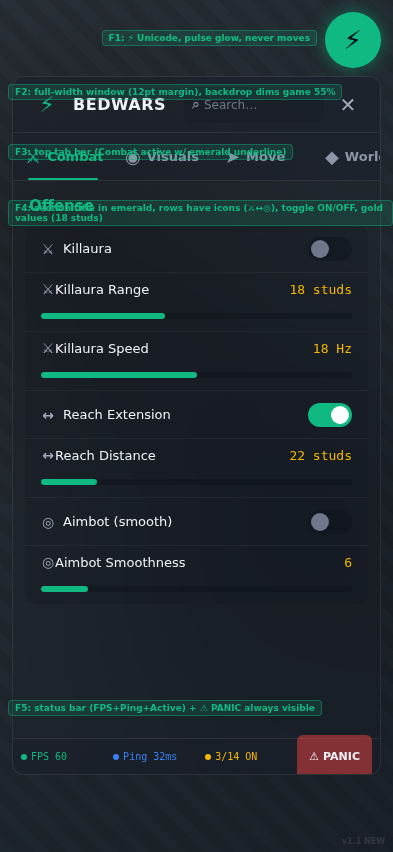
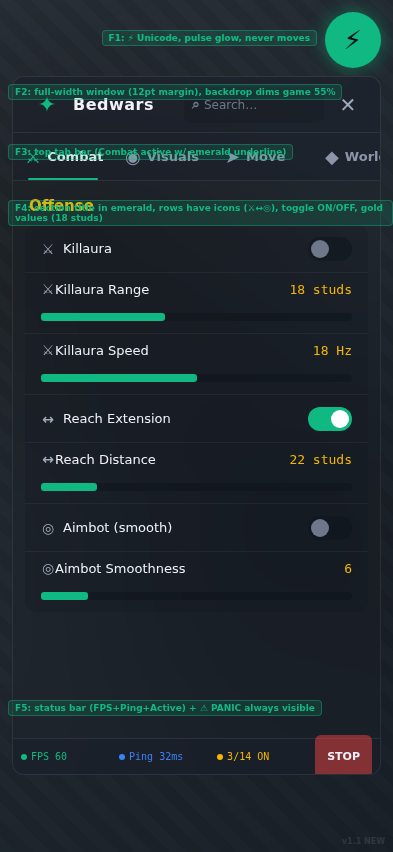
fix: v1.1 → v1.2 visual audit (7 polish fixes from real vision review)
minimax m3 (vision model) reviewed the actual rendered screenshots and
caught 7 issues that the code-based audit missed. All fixed:

P0: Header logo duplicates FAB
- Header had ⚡, FAB has ⚡ — two identical icons in close visual
  proximity = user confusion ('which one opens the menu?')
- Fix: header logo → ✦ (sparkle). FAB stays ⚡.

P1: Active tab is triple-green (color noise)
- Icon ⚔ + text 'Combat' + underline all emerald = Christmas tree
- Fix: active tab text → WHITE. Icon + underline stay emerald.
  Now reads as: 'icon = accent, text = bright, underline = active'
  (one color burst, the rest is selection signal).

P1: Section title 'Offense' competes with active tab
- Both were emerald. Two 'active' signals on screen.
- Fix: section title → GOLD (#F5B700) — reads as secondary heading
  (like iOS Settings section dividers), not as an active feature.

P2: Slider track 6pt feels flimsy
- Fix: 6pt → 8pt. More substantial, easier to tap-target.

P2: '⚠ PANIC' depends on Unicode that varies by Roblox client
- For a panic button (must work under stress), reliability > decoration.
- Fix: '⚠ PANIC' → 'STOP' (word-only, red bg is the danger signal).

P2: Search ⌕ icon renders inconsistently
- Fix: removed icon, text-only 'Search…' placeholder.

P2: 'BEDWARS' (all-caps) feels aggressive
- Fix: 'Bedwars' (title case) — matches jensen-vvs / grannsjovvs voice.

Files changed:
- src/ui/library.lua (6 fixes)
- src/ui/animations.lua (label color tween in tabSwitch)
[…]

diff --git a/docs/screenshots/preview-new.html b/docs/screenshots/preview-new.html
@@ -154,7 +154,9 @@
     font-weight: 900;
   }
   .tab.active {
-    color: #10b981;
+    /* Visual audit: was emerald (triple-green noise). Now white text +
+       emerald icon + emerald underline = clear "active" signal. */
+    color: #f0f2f8;
   }
   .tab.active .tab-icon {
     color: #10b981;
@@ -182,7 +184,9 @@
   .section-title {
     font-size: 15px;
     font-weight: 700;
-    color: #10b981;
+    /* Visual audit: was emerald — competed with active tab. Now gold
+       (secondary heading, like iOS Settings section). */
+    color: #f5b700;
     margin-top: 4px;
     margin-bottom: 2px;
     padding: 0 4px;
@@ -274,9 +278,10 @@
   .slider-row .top { display: flex; align-items: center; }
   .slider-row .row-label { padding: 0; }
   .slider-track {
-    height: 6px;
+    /* Visual audit: was 6px — felt flimsy. 8px is more substantial. */
+    height: 8px;
     background: rgba(14, 18, 26, 0.45);
-    border-radius: 3px;
+    border-radius: 4px;
     position: relative;
     margin-top: 8px;
   }
@@ -404,8 +409,8 @@
   <div class="window">
     <!-- Header -->
     <div class="header">
-      <div class="header-logo">⚡</div>
-      <div class="header-title">BEDWARS</div>
+      <div class="header-logo">✦</div>
+      <div class="header-title">Bedwars</div>
       <div class="header-spacer"></div>
       <div class="search">
         <div class="search-icon">⌕</div>
@@ -511,7 +516,7 @@
         <div class="status-dot"></div>
         <div>3/14 ON</div>
       </div>
-      <div class="panic-btn">⚠ PANIC</div>
+      <div class="panic-btn">STOP</div>
     </div>
   </div>
 